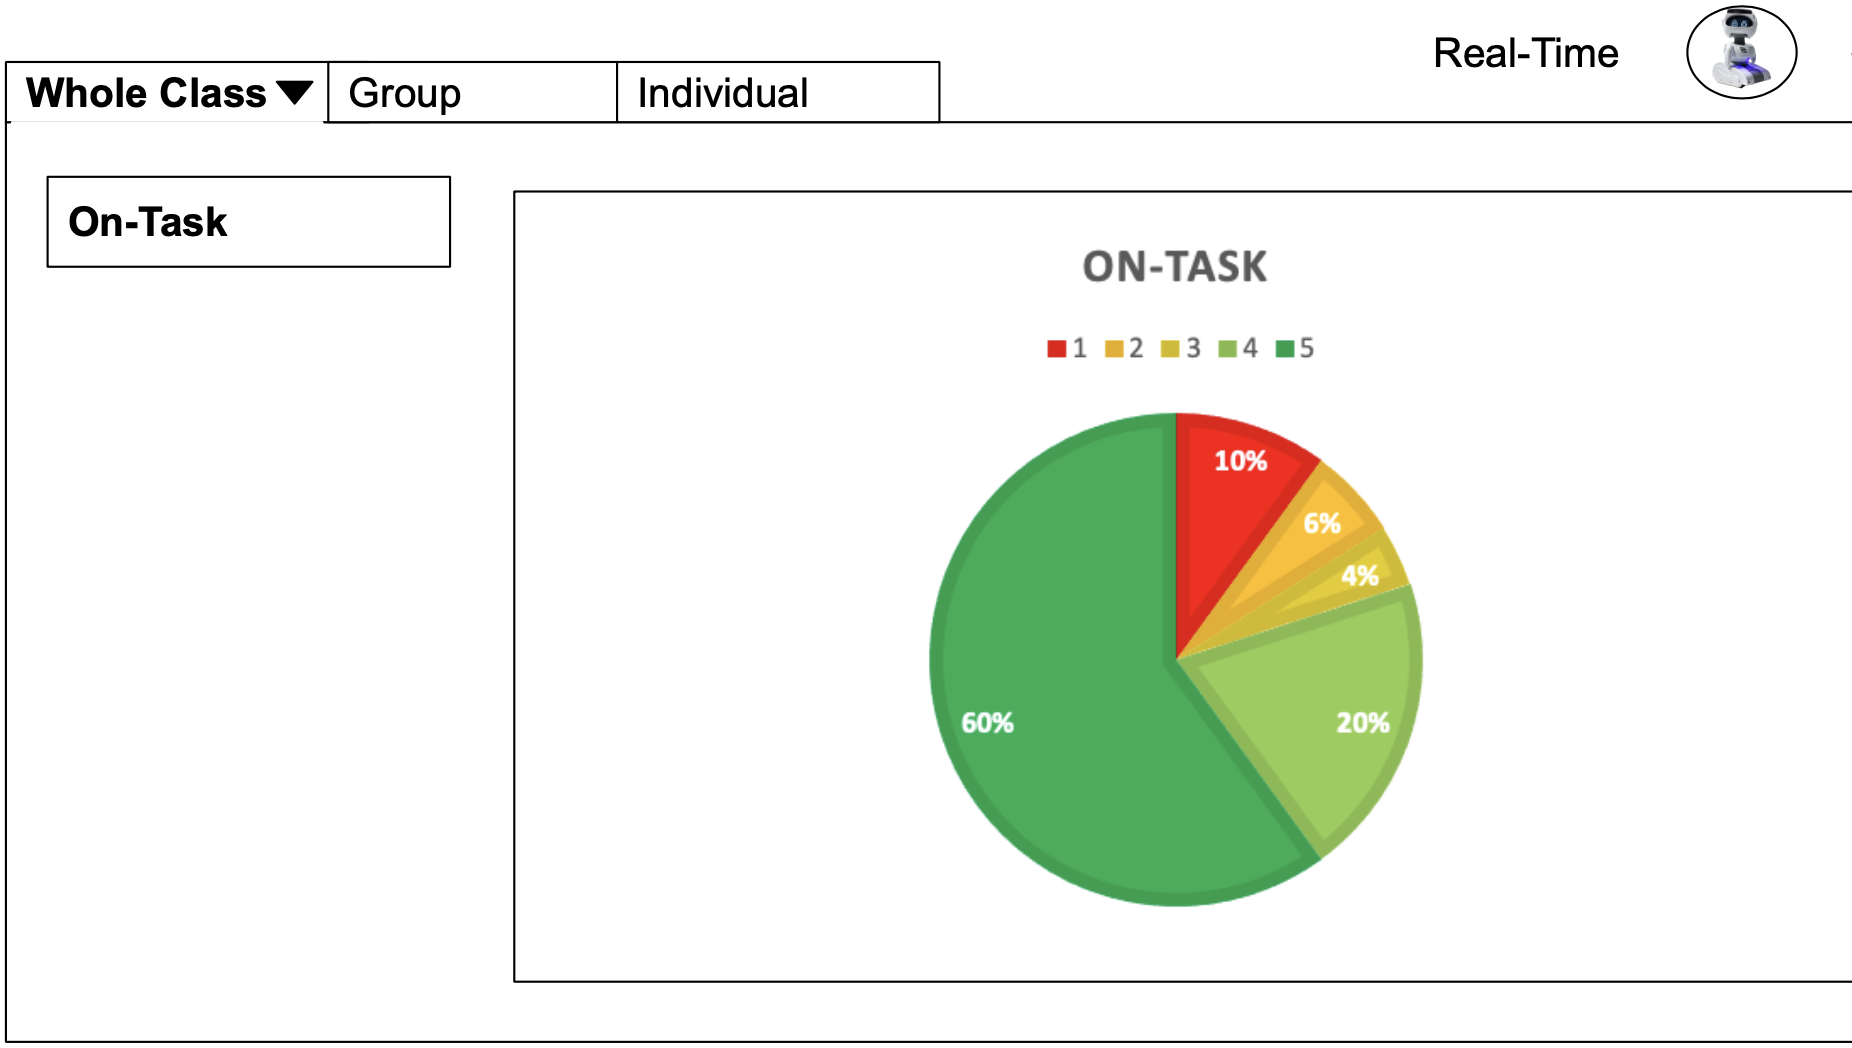
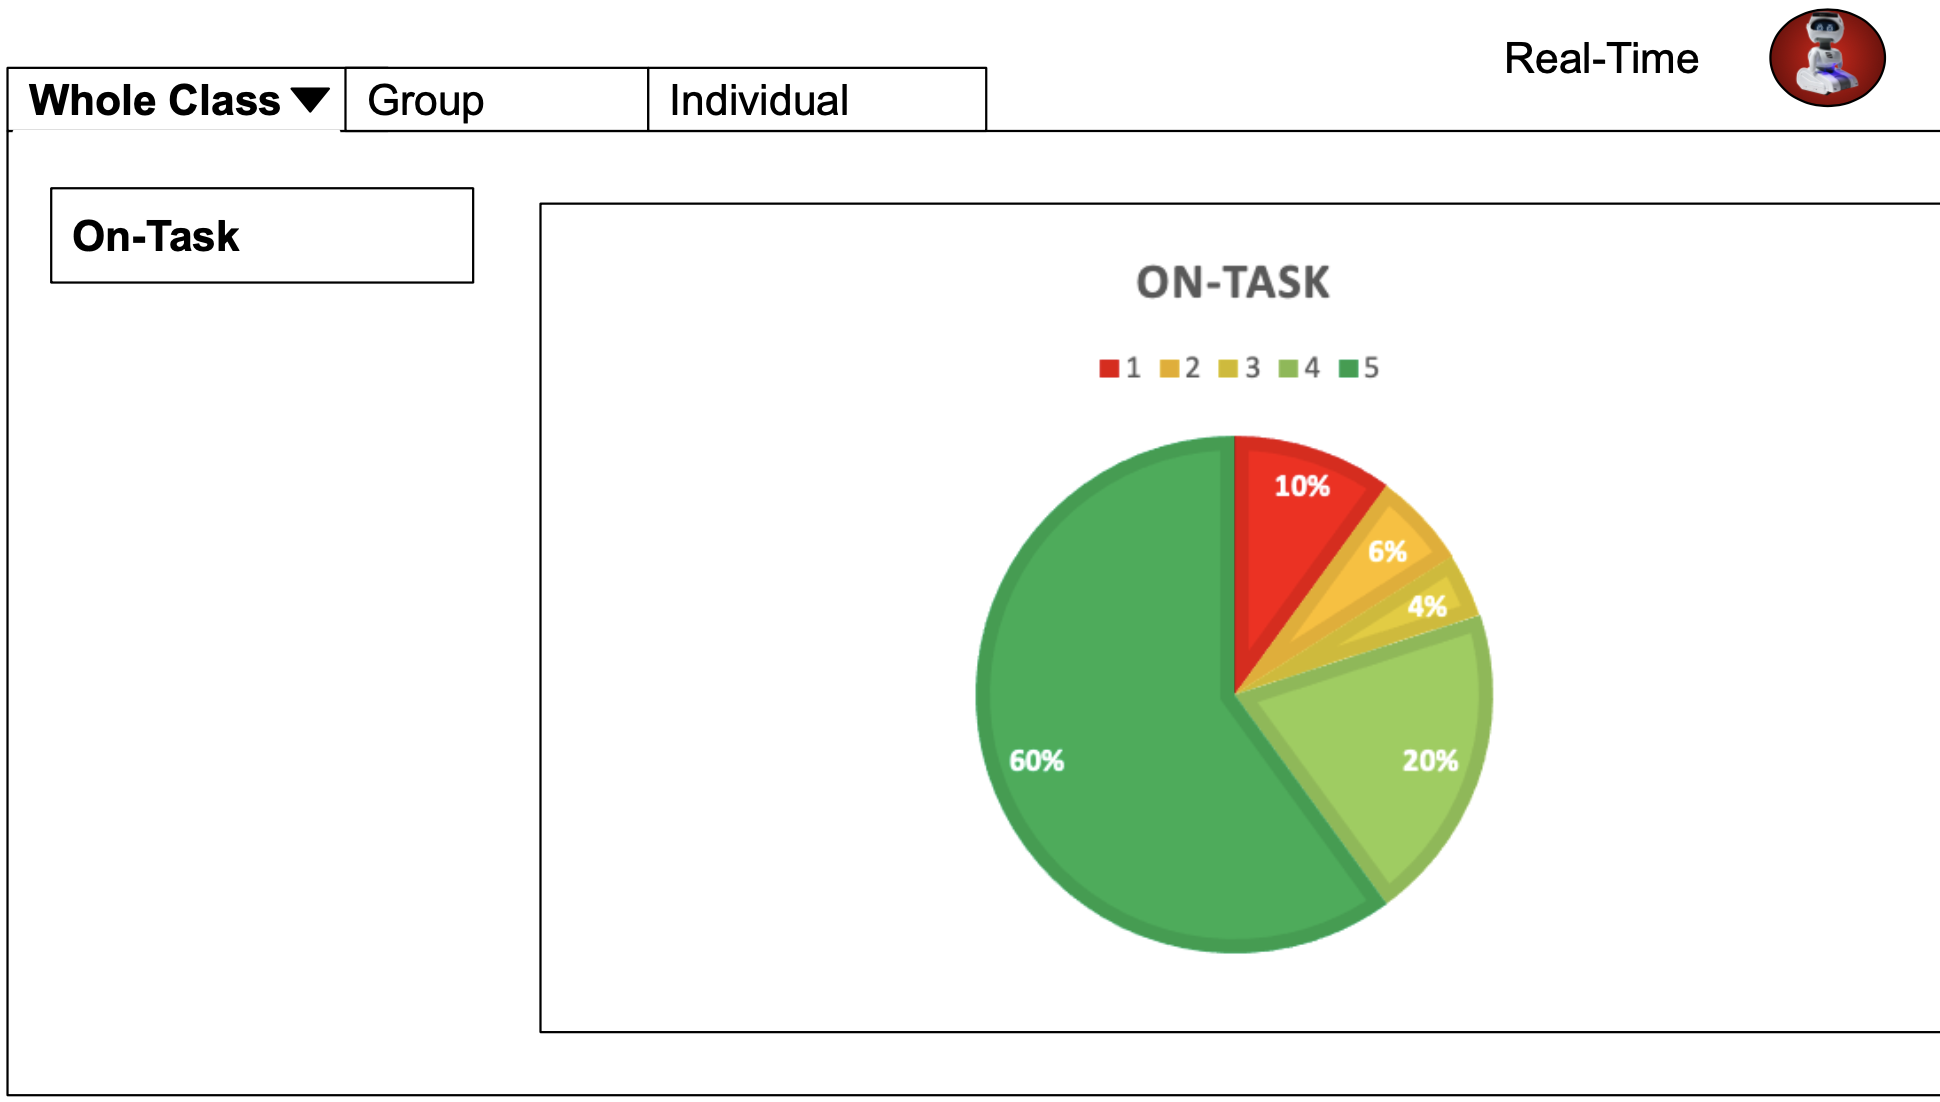
prototype1

diff --git a/src/Home.js b/src/Home.js
@@ -22,6 +22,10 @@ function Home(){
         history.push("/summary")
     }
 
+    function goToAI(){
+        history.push("/teachai")
+    }
+
     return(
         <div>
             <div style={{display: 'flex', alignItems: 'center', flexWrap: 'wrap', flexDirection:'row-reverse'}}>
@@ -31,7 +35,7 @@ function Home(){
             <Button onClick={goToPrep} style={{color:'black', width:'300px'}} variant='outlined'>Prep</Button><br/><br/>
             <Button  onClick={goToGroup} style={{color:'black', width:'300px'}} variant='outlined'>Real-Time Dashboard</Button><br/><br/>
             <Button  style={{color:'black', width:'300px'}} variant='outlined'>Summary</Button><br/><br/>
-            <Button  style={{color:'black',width:'300px'}} variant='outlined'>Teach the AI</Button><br/><br/>
+            <Button  onClick={goToAI} style={{color:'black',width:'300px'}} variant='outlined'>Teach the AI</Button><br/><br/>
    
         </div>
     );

diff --git a/src/TeachAI.js b/src/TeachAI.js
@@ -1,0 +1,38 @@
+import React from "react"
+import {useHistory} from "react-router-dom"
+import background from './TeachAI.png';
+import HomeIcon from '@material-ui/icons/Home';
+
+
+
+function TeachAI() {
+    let history = useHistory();
+    
+  
+    function handleClick() {
+      history.push("/");
+    } 
+
+    
+    return (
+
+       
+       <div style={{backgroundImage: `url(${background})`, backgroundPosition: 'center', backgroundSize: 'cover', backgroundRepeat: 'no-repeat',width: '100vw', height: '100vh' }}>
+        
+        <div style={{display: 'flex', alignItems: 'center', flexWrap: 'wrap', flexDirection:'row-reverse'}}>
+              <HomeIcon style={{width:'9.2vh',height:'9.2vh'}} onClick={handleClick}/>
+        </div>
+        
+      </div>
+    );
+  }
+
+  export default TeachAI;
+
+
+
+
+
+
+
+

diff --git a/src/App.css b/src/App.css
@@ -174,8 +174,8 @@
   background-color:#00000000;
   align-self: left;
   position: absolute;
-  top:3.8%;
-  left: 0.7%;
+  top:1.1%;
+  left: 0.3%;
   width: 251px;
   height: 50px;
 }
@@ -184,9 +184,9 @@
   background-color:#00000000;
   align-self: left;
   position: absolute;
-  top:3.8%;
-  left: 33.5%;
-  width: 251px;
+  top:1.1%;
+  left: 32.9%;
+  width: 250px;
   height: 50px;
 }
 
@@ -228,7 +228,7 @@
   background-color:#00000000;
   align-self: left;
   position: absolute;
-  top:14.5%;
+  top:12.5%;
   left: 93.5%;
   width: 85px;
   height: 77.5px;

diff --git a/src/App.js b/src/App.js
@@ -12,6 +12,7 @@ import Individual from './Individual';
 import Group3 from './Group3';
 import TaskStatus from './TaskStatus';
 import Summary from './Summary';
+import TeachAI from './TeachAI';
 
 
 function App() {
@@ -29,6 +30,7 @@ function App() {
       <Route exact path= "/group3" component={Group3}/>
       <Route exact path= "/taskstatus" component={TaskStatus}/>
       <Route exact path= "/summary" component={Summary}/>
+      <Route exact path= "/teachai" component={TeachAI}/>
       
     </div>
   );

diff --git a/src/Session.js b/src/Session.js
@@ -18,9 +18,7 @@ function Session() {
       history.push("/");
     }
 
-    function goToGroup() {
-      history.push("/group");
-    }
+    
 
 
     return (
@@ -31,7 +29,7 @@ function Session() {
             </div>
         <h2 style={{textAlign:'left'}}>New Session</h2>
 
-        <Button className="button" variant="outlined" onClick={goToGroup}>Start Session</Button>
+       
 
         <Tabs className="react-tabs">
         <TabList className="react-tabs__tab-list">

diff --git a/src/Agent.js b/src/Agent.js
@@ -1,9 +1,19 @@
 import React from 'react'
+import {useHistory} from "react-router-dom"
+import Button from '@material-ui/core/Button';
 
 function Agent() {
+
+    let history = useHistory();
+
+    function goToGroup() {
+        history.push("/group");
+      }
+
     return (
         <div>
             <h3>[Settings will be added here]</h3>
+            <Button className="button" variant="outlined" onClick={goToGroup}>Start Session</Button>
         </div>
     )
 }
